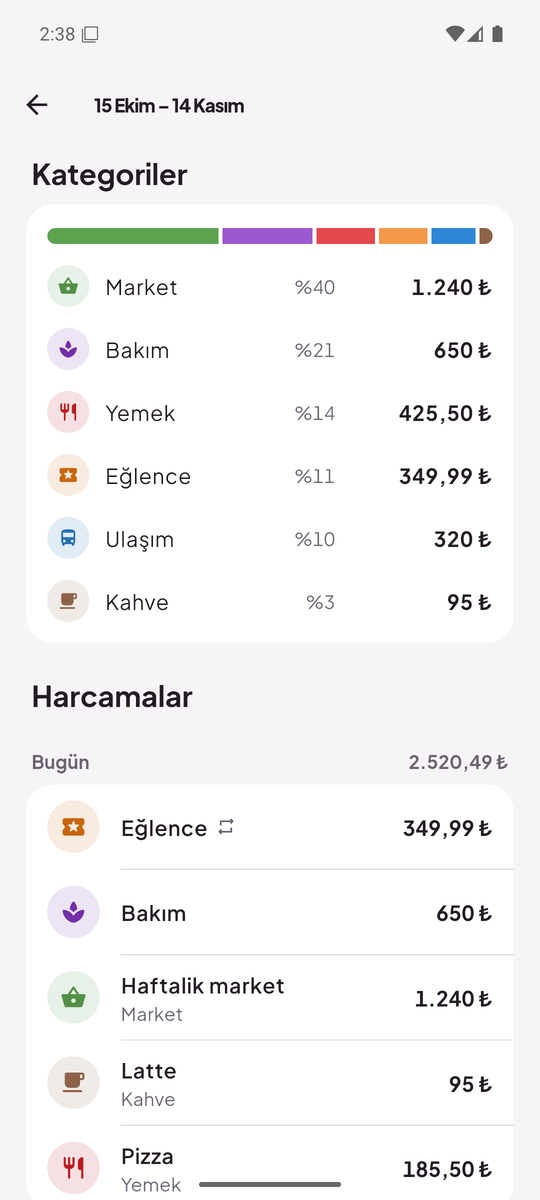
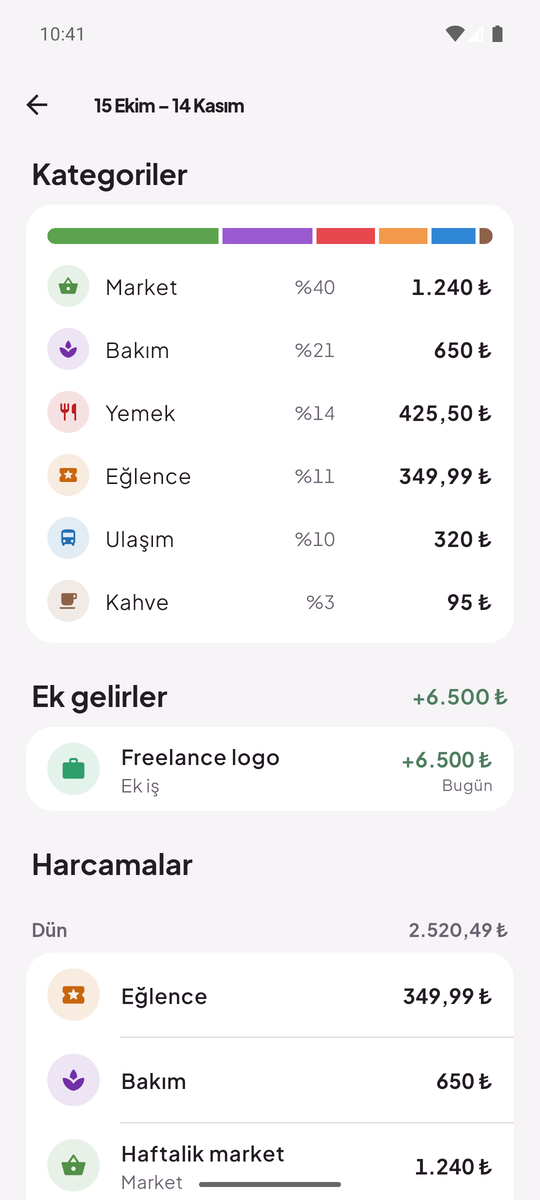
docs: update README and screenshots for extra income
Describe extra income across the summary, calendar and Excel export, fix the
project structure after the expense to entry rename, and retake the screenshots
on 1.1.0 with a new one for the income form.

diff --git a/README.md b/README.md
@@ -6,31 +6,32 @@
 
 <p align="center">
   A simple salary and expense tracker for Android.<br>
-  Enter your salary once, log what you spend, and always know what is left until payday.
+  Enter your salary once, log what you spend and any extra you earn, and always know what is left until payday.
 </p>
 
 <p align="center">
   <img src="docs/screenshots/summary.png" width="200" alt="Summary screen">
   <img src="docs/screenshots/calendar.png" width="200" alt="Calendar screen">
-  <img src="docs/screenshots/add-expense.png" width="200" alt="Adding an expense">
+  <img src="docs/screenshots/add-income.png" width="200" alt="Adding extra income">
 </p>
 
 ## Features
 
-- **Remaining balance at a glance.** The summary shows what is left of this period's salary, how much has been spent, and how many days are left until payday.
+- **Remaining balance at a glance.** The summary shows what is left of this period's salary and extra income, how much has been spent, and how many days are left until payday.
 - **Custom payday.** Periods run from payday to payday (for example the 15th to the 14th), not just calendar months. Short months are handled automatically.
 - **Fast expense entry.** Type the amount, tap a category, done. Shortcuts for today and yesterday, and an optional note.
 - **Colored categories.** Twelve categories, each with its own color and icon, plus a breakdown of where the money went.
-- **Calendar view.** See daily totals and category dots for every day of the month, and tap a day to see its expenses.
-- **Extra income.** Switch the add form to "Gelir" to log a bonus, side job, refund or sale. It is added to what is left for that period and shows in green with a plus sign, so it never looks like spending.
+- **Calendar view.** See daily totals and category dots for every day of the month, and tap a day to see its expenses and income. Days with extra income are tinted green.
+- **Extra income.** Switch the add form from "Harcama" to "Gelir" to log a side job, bonus, gift, refund, sale or investment return. It is added to what is left for that period, appears next to the salary on the summary card, and shows in green with a plus sign everywhere, so it never looks like spending.
 - **Recurring expenses.** Choose "every month" while adding an expense, and rent, bills or subscriptions are added automatically on the same day each month, including months the app was not opened.
 - **Undo.** Swipe an expense away to delete it, and undo if it was a mistake.
-- **Excel export.** Save every expense and a per-period summary as an `.xlsx` file.
+- **Excel export.** Save an `.xlsx` file with a sheet of expenses, a sheet of extra income, and a per-period summary of salary, extra income, spending and what was left.
 - **Light and dark themes**, following the system or set manually.
 - **Private by design.** No account and no server; all data stays on the device in a local SQLite database.
 
 <p align="center">
-  <img src="docs/screenshots/categories.png" width="200" alt="Spending by category">
+  <img src="docs/screenshots/add-expense.png" width="200" alt="Adding an expense">
+  <img src="docs/screenshots/categories.png" width="200" alt="Spending by category and extra income for a period">
   <img src="docs/screenshots/summary-dark.png" width="200" alt="Summary screen in dark theme">
 </p>
 
@@ -79,10 +80,10 @@ The release build is signed with the debug key, which is fine for installing on 
 lib/
 ├── core/            # Dates, money formatting, theme and colors
 ├── data/            # SQLite database and repositories
-├── domain/          # Expenses, categories, pay periods, recurring expenses
+├── domain/          # Expenses, incomes, categories, pay periods, recurring expenses
 ├── features/
 │   ├── calendar/    # Month view with daily totals
-│   ├── expense/     # Add and edit expense sheet
+│   ├── entry/       # Add and edit sheet for expenses and income
 │   ├── export/      # Excel export
 │   ├── home/        # Summary tab and full period list
 │   ├── onboarding/  # First run: name, salary and payday
